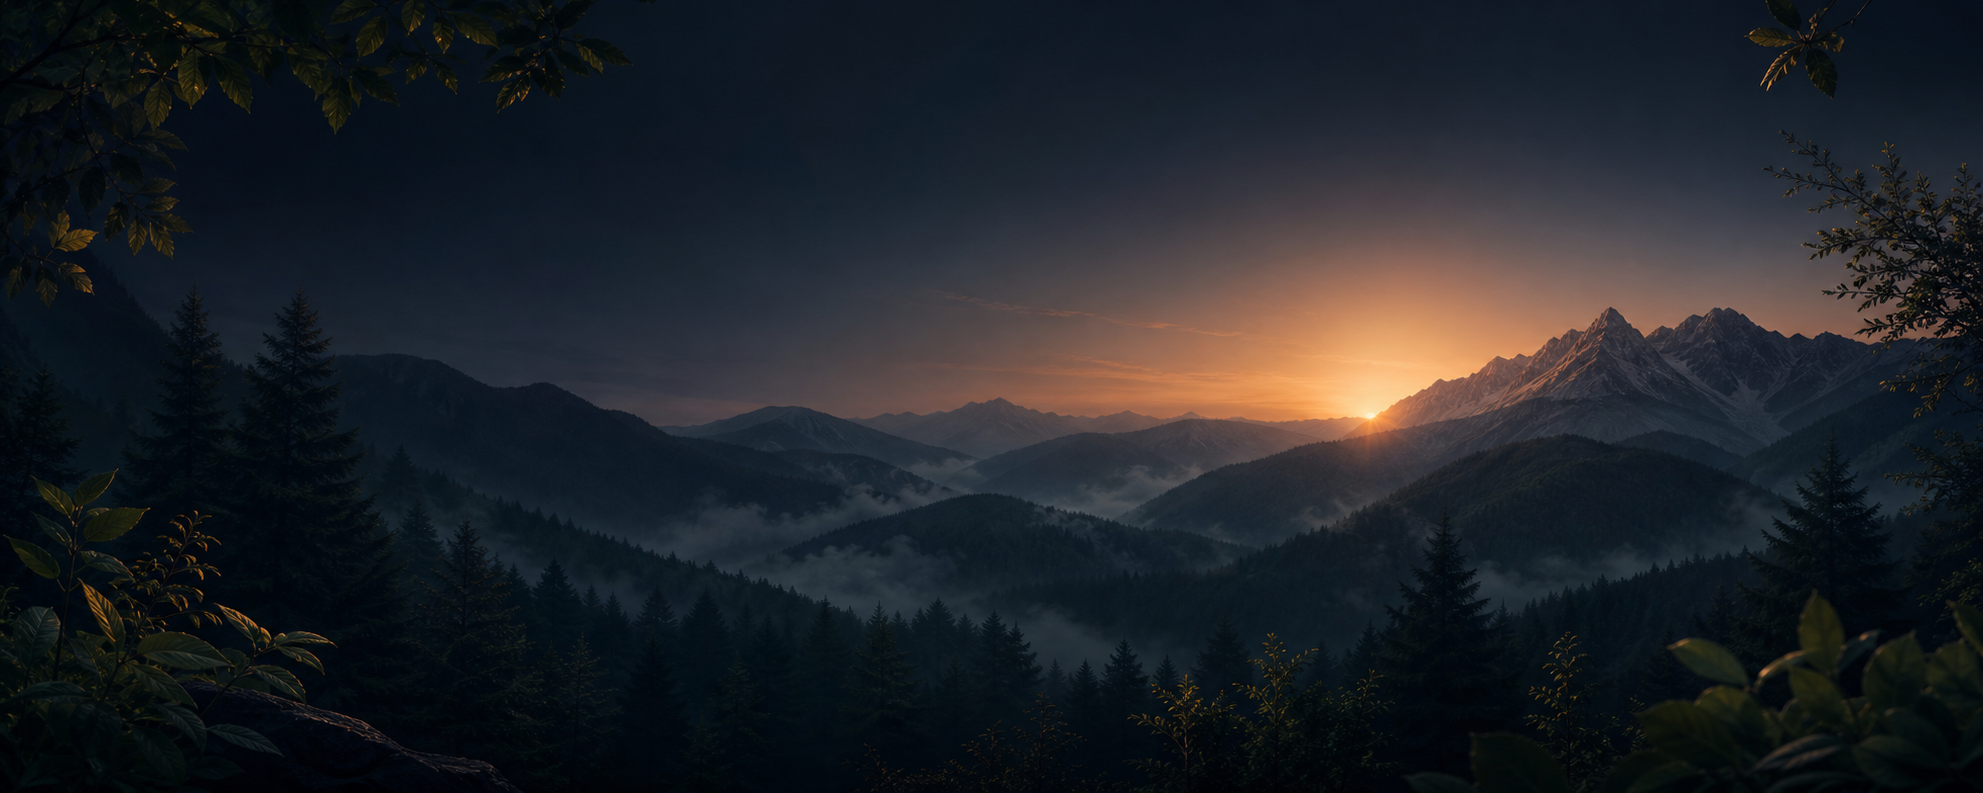
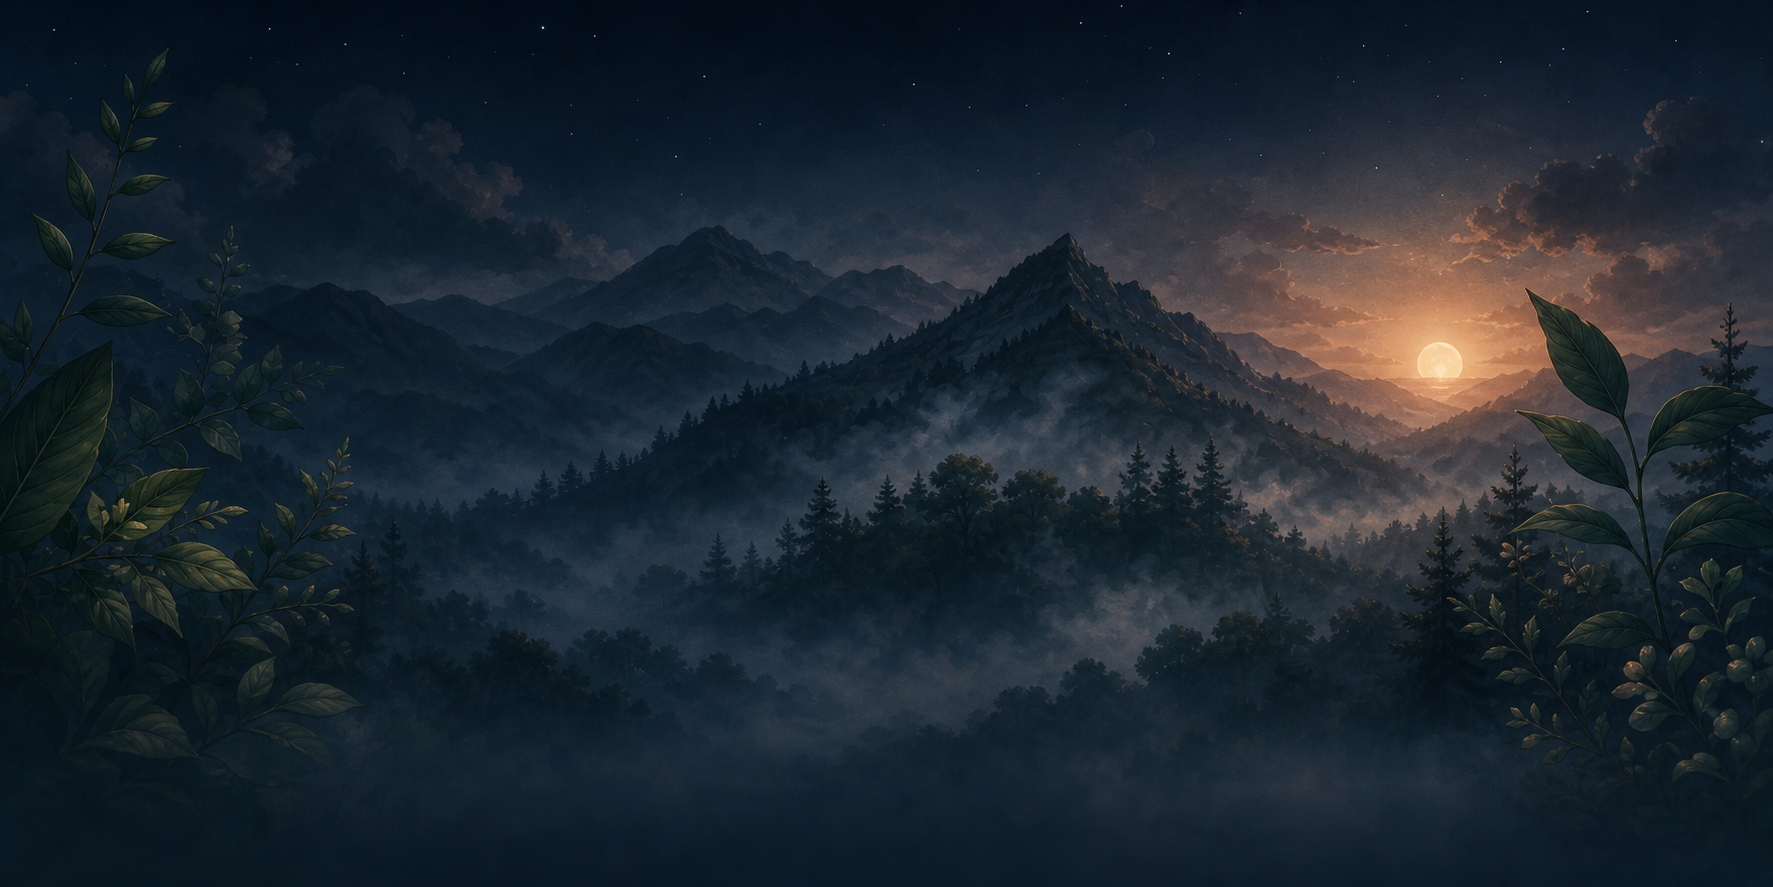
Align organizations hero with reference

diff --git a/apps/bumicerts/app/(marketplace)/organizations/_components/AllOrgsShell.tsx b/apps/bumicerts/app/(marketplace)/organizations/_components/AllOrgsShell.tsx
@@ -166,7 +166,7 @@ function OrganizationsHero({ animate }: { animate: boolean }) {
       initial={animate ? { opacity: 0, y: 16 } : false}
       animate={{ opacity: 1, y: 0 }}
       transition={{ duration: 0.6, ease: [0.25, 0.1, 0.25, 1] }}
-      className="relative overflow-hidden rounded-[2rem] border border-border/60 bg-card shadow-sm"
+      className="relative min-h-[330px] overflow-hidden bg-card"
     >
       <div className="absolute inset-0">
         <Image
@@ -187,10 +187,10 @@ function OrganizationsHero({ animate }: { animate: boolean }) {
         />
       </div>
 
-      <div className="absolute inset-0 bg-[radial-gradient(circle_at_76%_36%,color-mix(in_oklab,var(--primary)_18%,transparent)_0%,transparent_28%),linear-gradient(90deg,var(--background)_0%,color-mix(in_oklab,var(--background)_78%,transparent)_28%,transparent_62%),linear-gradient(180deg,color-mix(in_oklab,var(--background)_58%,transparent)_0%,transparent_42%,var(--background)_100%)]" />
+      <div className="absolute inset-0 bg-[radial-gradient(circle_at_76%_36%,color-mix(in_oklab,var(--primary)_16%,transparent)_0%,transparent_28%),linear-gradient(90deg,color-mix(in_oklab,var(--background)_58%,transparent)_0%,color-mix(in_oklab,var(--background)_42%,transparent)_26%,transparent_58%),linear-gradient(180deg,color-mix(in_oklab,var(--background)_46%,transparent)_0%,transparent_42%,var(--background)_100%)]" />
       <div className="absolute inset-x-0 bottom-0 h-28 bg-gradient-to-t from-background via-background/70 to-transparent" />
 
-      <div className="relative z-10 flex min-h-[300px] flex-col justify-center px-7 py-12 sm:min-h-[340px] sm:px-12 lg:px-16">
+      <div className="relative z-10 mx-auto flex max-w-6xl flex-col px-8 pb-14 pt-[86px] sm:px-10 lg:px-9">
         <div className="flex items-center gap-2 mb-5">
           <UsersIcon className="h-4 w-4 text-primary" />
           <span className="text-xs uppercase tracking-[0.18em] text-primary font-semibold">
@@ -199,7 +199,7 @@ function OrganizationsHero({ animate }: { animate: boolean }) {
         </div>
         <h1
           aria-label="Nature Stewards"
-          className="max-w-3xl text-4xl font-light tracking-[-0.035em] leading-[0.98] text-foreground sm:text-5xl md:text-6xl lg:text-7xl"
+          className="max-w-3xl text-4xl font-light tracking-[-0.035em] leading-[0.98] text-foreground sm:text-5xl md:text-[56px] lg:text-[58px]"
           style={{ fontFamily: "var(--font-garamond-var)" }}
         >
           <span aria-hidden="true">
@@ -295,12 +295,12 @@ export function AllOrgsShell({
   }, [organizations, query, sort, countryFilter, bioregionFilter]);
 
   return (
-    <section className="pt-6 pb-20 md:pb-28 px-6">
-      <div className="max-w-6xl mx-auto">
-        <OrganizationsHero animate={animate} />
+    <section className="-mt-14 pb-20 md:pb-28">
+      <OrganizationsHero animate={animate} />
 
+      <div className="max-w-6xl mx-auto px-6">
         {/* Search + sort row */}
-        <div className="relative z-20 -mt-8 space-y-3 mb-0 px-0 sm:-mt-10 sm:px-6 lg:px-8">
+        <div className="relative z-20 -mt-14 space-y-3 mb-0 px-3">
           <div className="flex items-center gap-3">
             <div className="relative flex-1 min-w-0">
               <SearchIcon className="absolute left-3 top-1/2 -translate-y-1/2 h-4 w-4 text-muted-foreground/60" />
@@ -393,7 +393,7 @@ export function AllOrgsShell({
         </div>
 
         {/* Gradient separator */}
-        <div className="h-px bg-gradient-to-r from-transparent via-primary/30 to-transparent my-8" />
+        <div className="h-px bg-gradient-to-r from-transparent via-primary/30 to-transparent my-6" />
 
         {/*
           Main content slot.